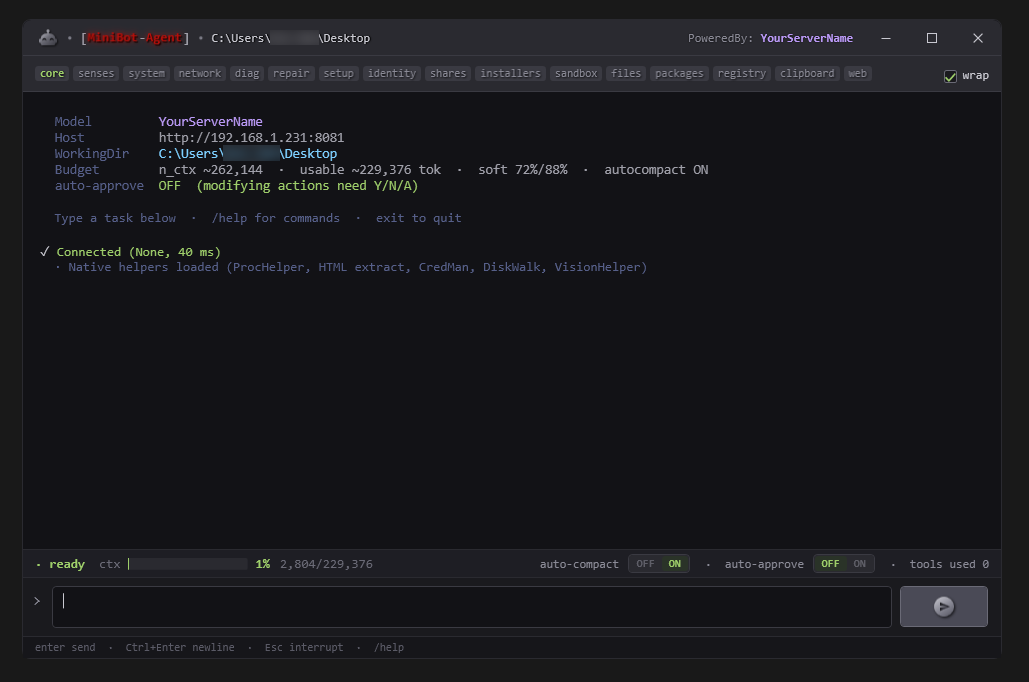
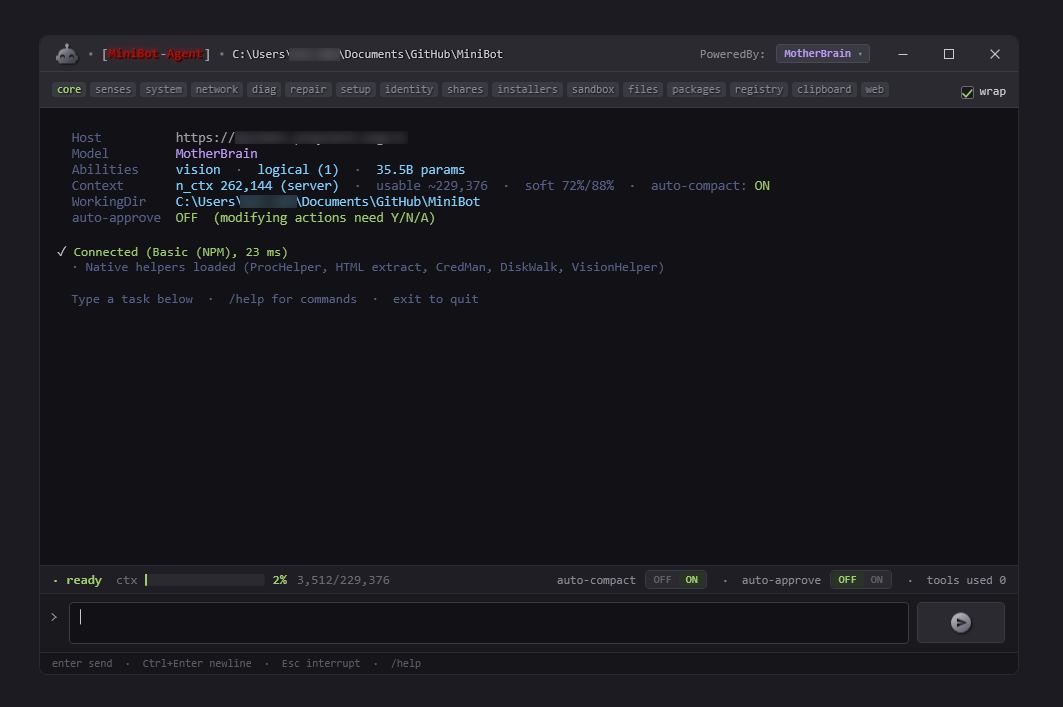
Update readme

diff --git a/README.md b/README.md
@@ -24,6 +24,12 @@ MiniBot is a single-file agent harness: progressive tools, operator approvals fo
 
 ---
 
+<p align="center">
+  <img src="https://raw.githubusercontent.com/illsk1lls/MiniBot/refs/heads/main/.readme/MiniBot-Login.png" alt="Basic Auth Support">
+</p>
+
+---
+
 ## Requirements
 
 | Requirement | Notes |
@@ -41,14 +47,14 @@ MiniBot is a single-file agent harness: progressive tools, operator approvals fo
 ```powershell
 powershell -NoProfile -ExecutionPolicy Bypass -File "C:\path\to\MiniBot.ps1"
 ```
+(or just rename to CMD and double-click to launch)
 
-Point at your server and set a display name for the title bar:
+Hardcode your endpoint at the top of the script for smoother/faster access:
 
 ```powershell
 powershell -NoProfile -ExecutionPolicy Bypass -File ".\MiniBot.ps1" `
   -BaseUrl "http://127.0.0.1:8080" `
   -ModelAlias "HomeLab" `
-  -HideConsole:$false
 ```
 
 ### Hybrid launcher